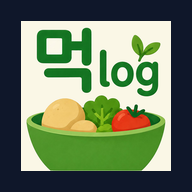
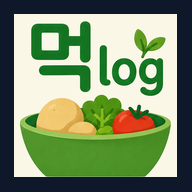
v0.1.11: PWA/스플래시 아이콘 안전 여백 85%

Changed region(s): [[0.0625, 0.0625, 0.9375, 0.9375]]

diff --git a/src/pages/SettingsPage.tsx b/src/pages/SettingsPage.tsx
@@ -361,7 +361,7 @@ export default function SettingsPage() {
             개인정보 처리방침 · 서비스 안내
           </Link>
         </p>
-        <p className="text-[11px] text-slate-600">먹로그 v0.1.10</p>
+        <p className="text-[11px] text-slate-600">먹로그 v0.1.11</p>
       </section>
     </div>
   );